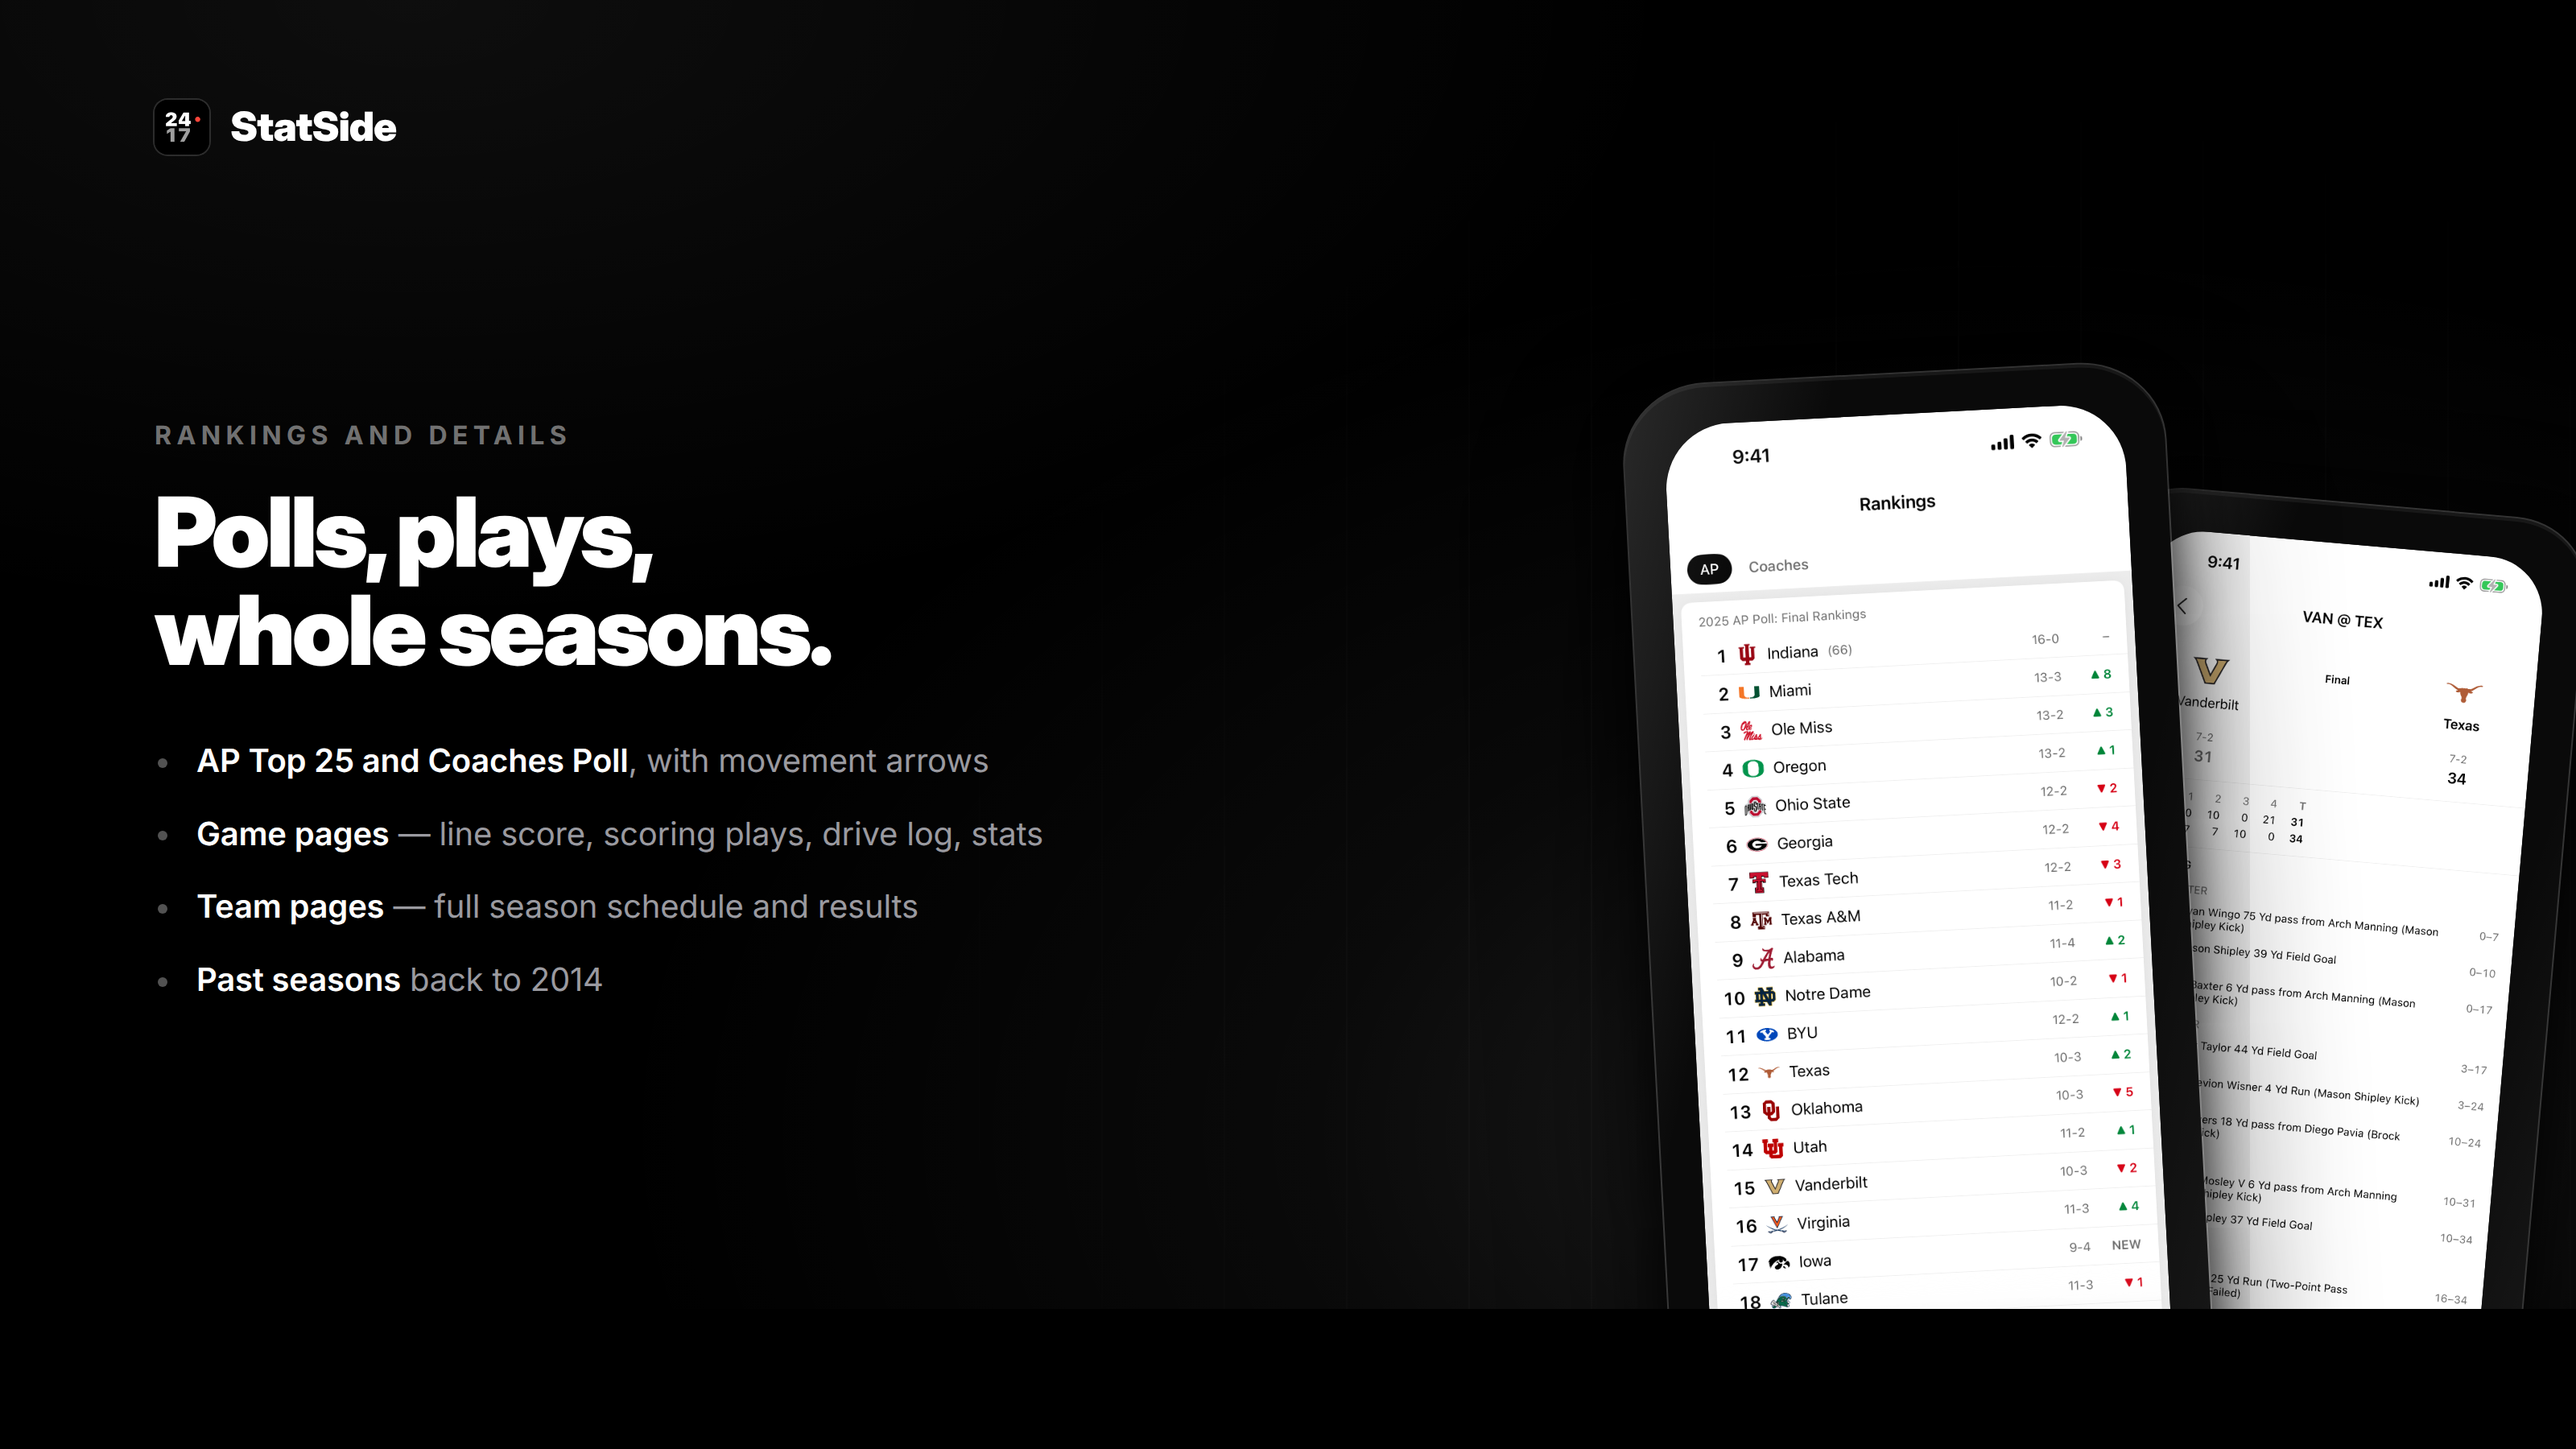
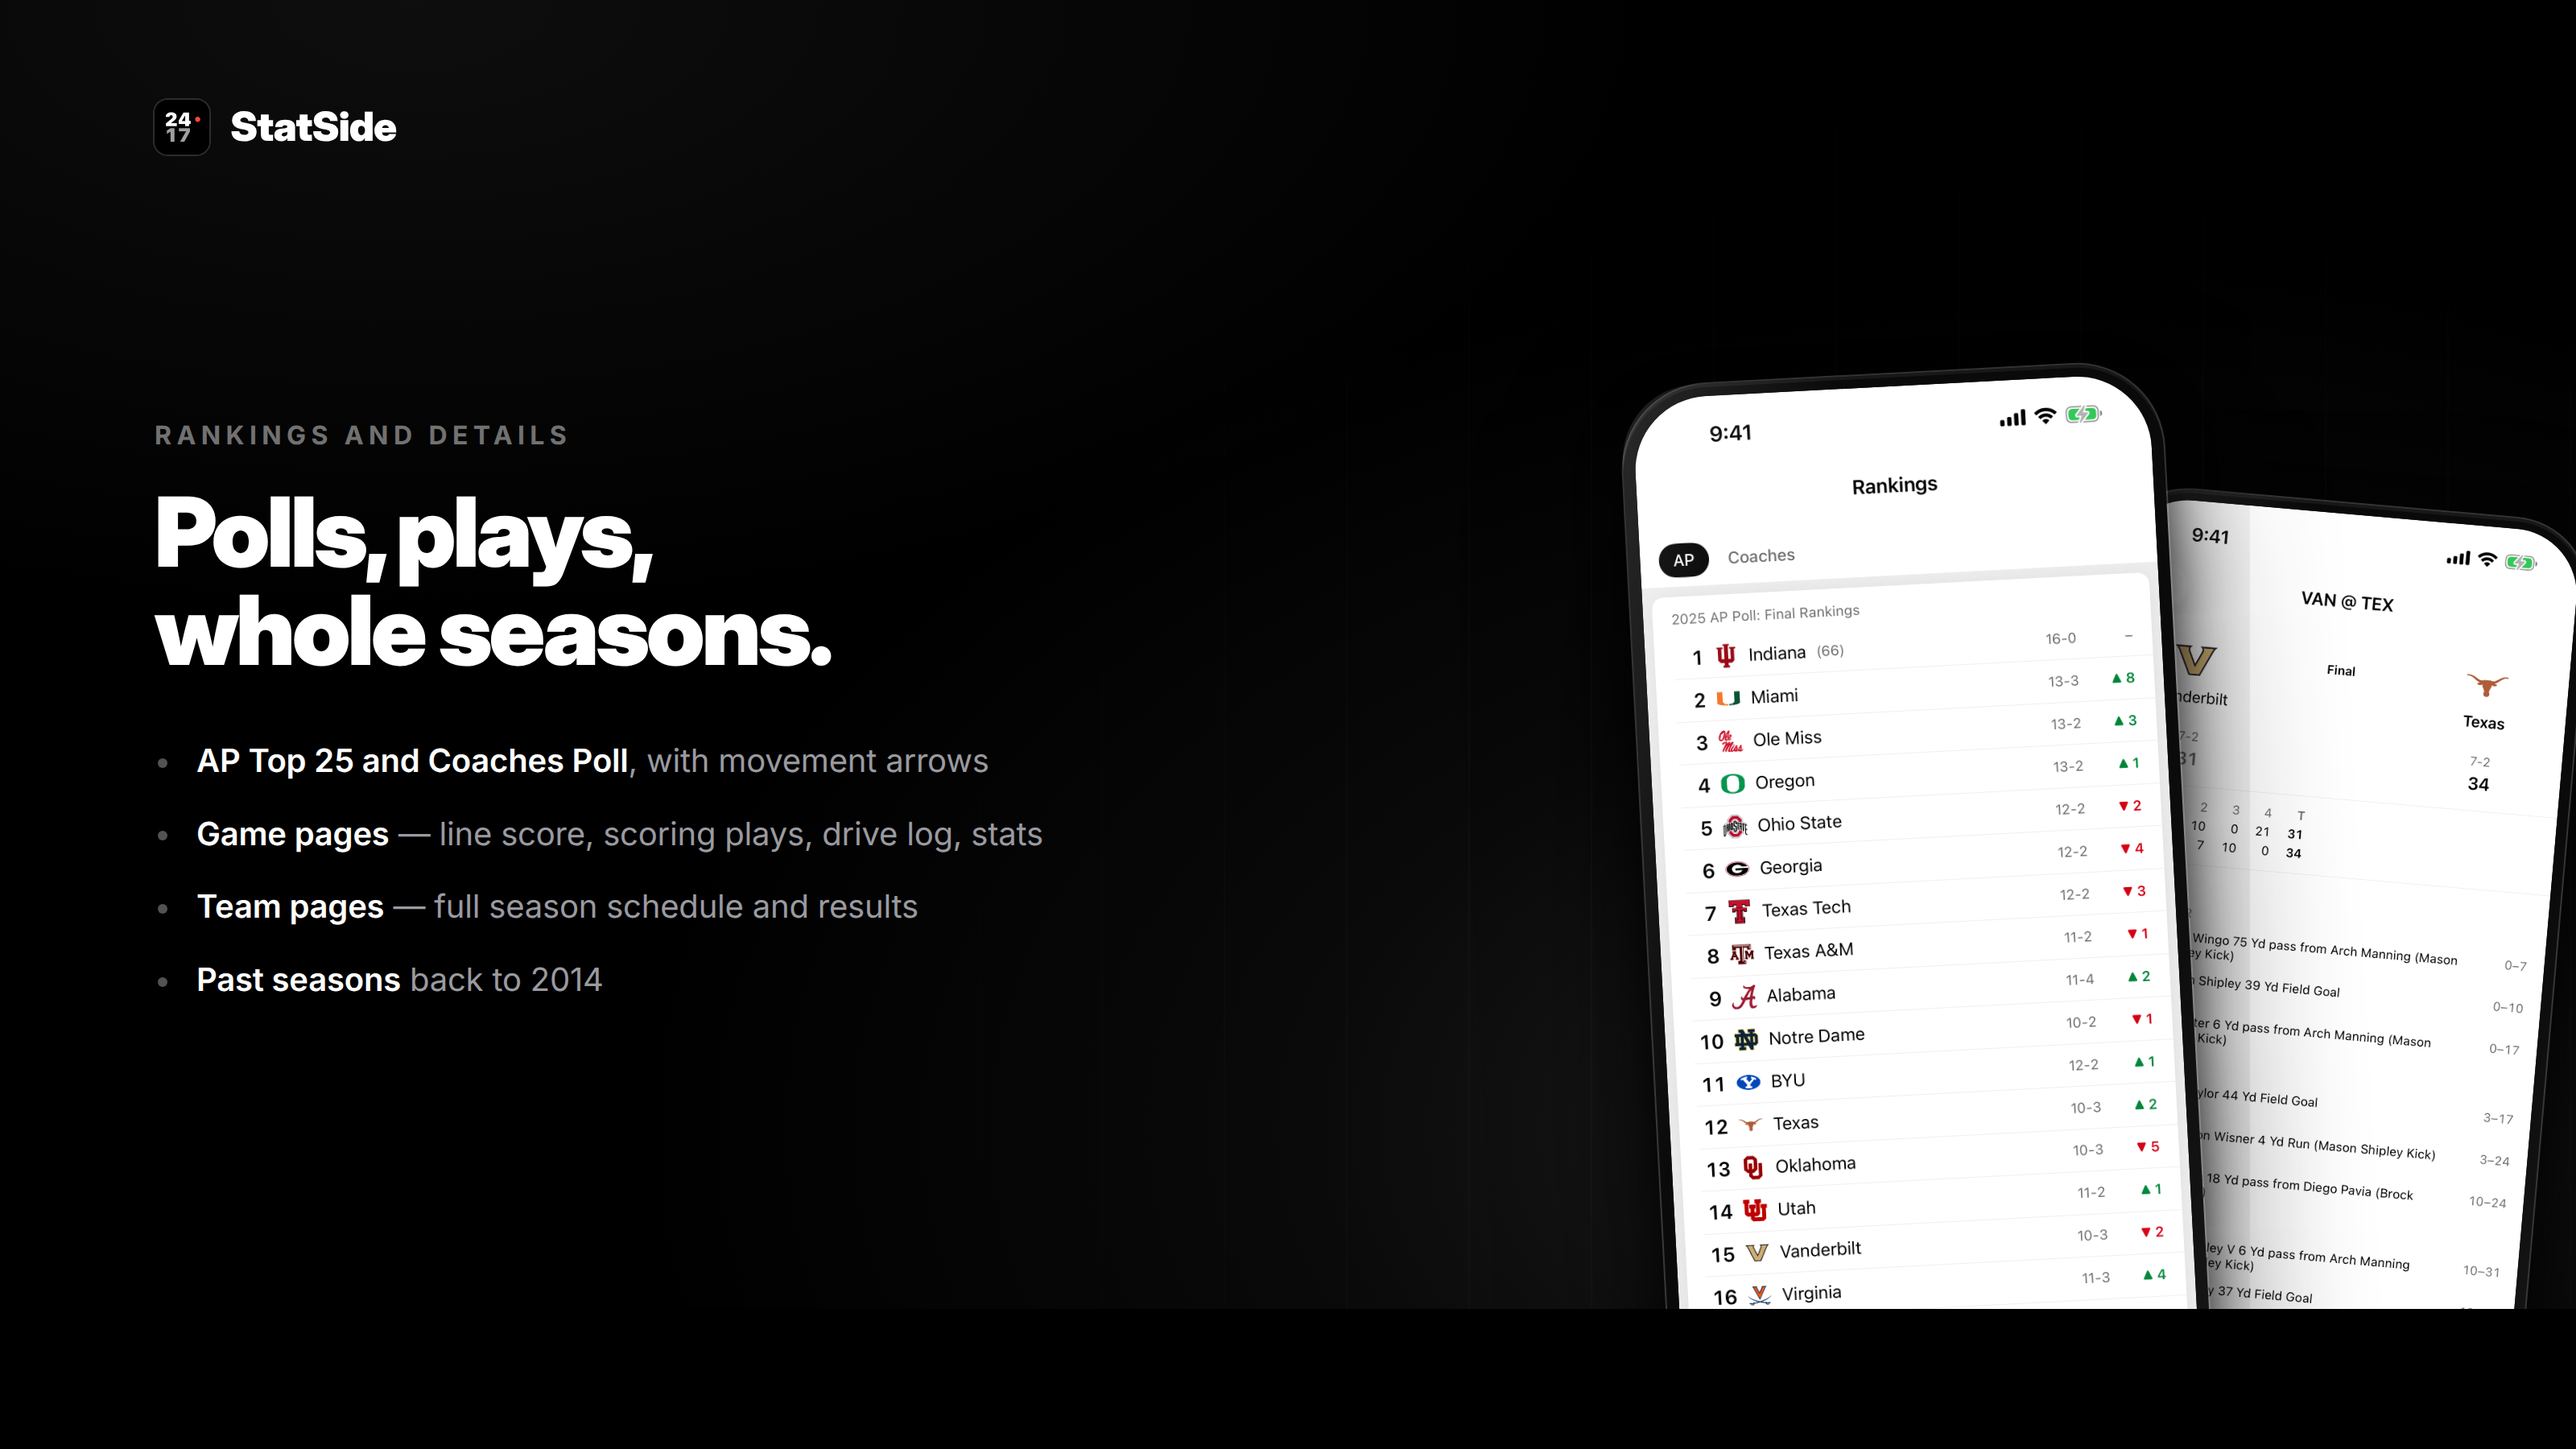
Make device frame corners concentric
The bezel used percentage padding, which resolves against the containing
block rather than the element — so every phone carried the same ~25px
bezel while its corner radii scaled with its width. No frame was
concentric, and the mismatch showed at the corners.

Drive the frame from a single font-size instead: width is 1em, the bezel
and screen radius are em fractions of it, and the outer radius is the sum
of the two. Concentric by construction at any size. Bezels come out
thinner and closer to a real device; frames grow slightly taller, still
bleeding off the bottom edge in every composition.

Claude-Session: https://claude.ai/code/session_014Jkjags4RwxzHDuTRdjHpD

Changed region(s): [[0.625, 0.2489, 1.0, 0.9022]]

diff --git a/docs/social/src/social.css b/docs/social/src/social.css
@@ -99,9 +99,16 @@ body {
 
 .phone {
   position: absolute;
+  /* 1em == the phone's width, so a single font-size drives the whole device.
+     Percentage padding would resolve against the stage, not the phone, which
+     leaves the bezel a fixed width while the radii scale — never concentric. */
+  --bezel: 0.022em;
+  --screen-radius: 0.138em;
+  width: 1em;
   background: #0a0a0a;
-  border-radius: 15.5%/7.3%;
-  padding: 1.55%;
+  padding: var(--bezel);
+  /* Concentric: the outer curve is the screen's curve plus the bezel around it. */
+  border-radius: calc(var(--screen-radius) + var(--bezel));
   box-shadow:
     0 0 0 1px rgba(255,255,255,0.20),
     0 2px 0 0 rgba(255,255,255,0.06) inset,
@@ -111,13 +118,13 @@ body {
 .phone img {
   display: block;
   width: 100%;
-  border-radius: 14.2%/6.6%;
+  border-radius: var(--screen-radius);
 }
 /* Glass edge highlight down the left rail. */
 .phone .glare {
   position: absolute;
   inset: 0;
-  border-radius: inherit;
+  border-radius: var(--screen-radius);
   background: linear-gradient(105deg, rgba(255,255,255,0.13) 0%, rgba(255,255,255,0) 26%, rgba(255,255,255,0) 74%, rgba(255,255,255,0.06) 100%);
   pointer-events: none;
 }

diff --git a/docs/social/src/landscape.html b/docs/social/src/landscape.html
@@ -29,10 +29,10 @@
   .sub { font-size: 23px; margin-top: 22px; max-width: 660px; text-wrap: balance; }
   .pill { font-size: 14px; padding: 11px 20px; margin-top: 32px; }
 
-  .phone.hero  { width: 330px; left: 990px; top: 286px; z-index: 3; }
-  .phone.left  { width: 286px; left: 776px; top: 352px; z-index: 2;
+  .phone.hero  { font-size: 330px; left: 990px; top: 286px; z-index: 3; }
+  .phone.left  { font-size: 286px; left: 776px; top: 352px; z-index: 2;
                  transform: rotate(-7deg); }
-  .phone.right { width: 286px; left: 1248px; top: 352px; z-index: 2;
+  .phone.right { font-size: 286px; left: 1248px; top: 352px; z-index: 2;
                  transform: rotate(7deg); }
 </style>
 </head>

diff --git a/docs/social/src/square.html b/docs/social/src/square.html
@@ -22,10 +22,10 @@
   .pill { font-size: 15px; padding: 12px 22px; margin-top: 34px; }
 
   /* Devices: hero centered, wings behind, all bleeding off the bottom edge. */
-  .phone.hero  { width: 336px; left: 372px; top: 486px; z-index: 3; }
-  .phone.left  { width: 290px; left: 158px; top: 556px; z-index: 2;
+  .phone.hero  { font-size: 336px; left: 372px; top: 486px; z-index: 3; }
+  .phone.left  { font-size: 290px; left: 158px; top: 556px; z-index: 2;
                  transform: rotate(-7deg); }
-  .phone.right { width: 290px; left: 632px; top: 556px; z-index: 2;
+  .phone.right { font-size: 290px; left: 632px; top: 556px; z-index: 2;
                  transform: rotate(7deg); }
 </style>
 </head>

diff --git a/docs/social/src/portrait.html b/docs/social/src/portrait.html
@@ -21,10 +21,10 @@
   .sub { font-size: 26px; margin-top: 26px; }
   .pill { font-size: 15px; padding: 12px 22px; margin-top: 36px; }
 
-  .phone.hero  { width: 372px; left: 354px; top: 590px; z-index: 3; }
-  .phone.left  { width: 320px; left: 116px; top: 668px; z-index: 2;
+  .phone.hero  { font-size: 372px; left: 354px; top: 590px; z-index: 3; }
+  .phone.left  { font-size: 320px; left: 116px; top: 668px; z-index: 2;
                  transform: rotate(-7deg); }
-  .phone.right { width: 320px; left: 644px; top: 668px; z-index: 2;
+  .phone.right { font-size: 320px; left: 644px; top: 668px; z-index: 2;
                  transform: rotate(7deg); }
 </style>
 </head>

diff --git a/docs/social/src/03-saturdays.html b/docs/social/src/03-saturdays.html
@@ -19,9 +19,9 @@
   .bullets { margin-top: 34px; max-width: 660px; font-size: 20px; }
   .bullets li + li { margin-top: 13px; }
 
-  .phone.hero  { width: 344px; left: 1096px; top: 214px; z-index: 3;
+  .phone.hero  { font-size: 344px; left: 1096px; top: 214px; z-index: 3;
                  transform: rotate(-3deg); }
-  .phone.back  { width: 300px; left: 1350px; top: 300px; z-index: 2;
+  .phone.back  { font-size: 300px; left: 1350px; top: 300px; z-index: 2;
                  transform: rotate(5deg); }
 </style>
 </head>

diff --git a/docs/social/src/05-rankings.html b/docs/social/src/05-rankings.html
@@ -19,9 +19,9 @@
   .bullets { margin-top: 34px; max-width: 660px; font-size: 20px; }
   .bullets li + li { margin-top: 13px; }
 
-  .phone.hero  { width: 336px; left: 1024px; top: 232px; z-index: 3;
+  .phone.hero  { font-size: 336px; left: 1024px; top: 232px; z-index: 3;
                  transform: rotate(-3deg); }
-  .phone.back  { width: 296px; left: 1288px; top: 312px; z-index: 2;
+  .phone.back  { font-size: 296px; left: 1288px; top: 312px; z-index: 2;
                  transform: rotate(5deg); }
 </style>
 </head>

diff --git a/docs/social/README.md b/docs/social/README.md
@@ -61,6 +61,12 @@ gradients and positions its own devices and crops.
   the card width and offset with negative `top` to land on the region you want.
   Screenshots are 1320 × 2868, so `scale = card_width / 1320` and
   `top = -region_y * scale`. Change the screenshots and every offset moves.
+- Device frames are driven by one number: `font-size` on `.phone` sets its
+  width (`width: 1em`), and the bezel and radii are `em` fractions of it. The
+  outer radius is `screen-radius + bezel`, so the curves stay concentric at any
+  size. Don't switch the bezel back to a percentage — percentage padding
+  resolves against the containing block, not the element, which pins the bezel
+  to a fixed width while the radii scale.
 - Absolute positioning inside `.content` can silently drop content in headless
   renders — keep copy in normal flow and let the flex column stack it.
 - Screens are from Week 10 of the 2025 season with final poll data, so the
